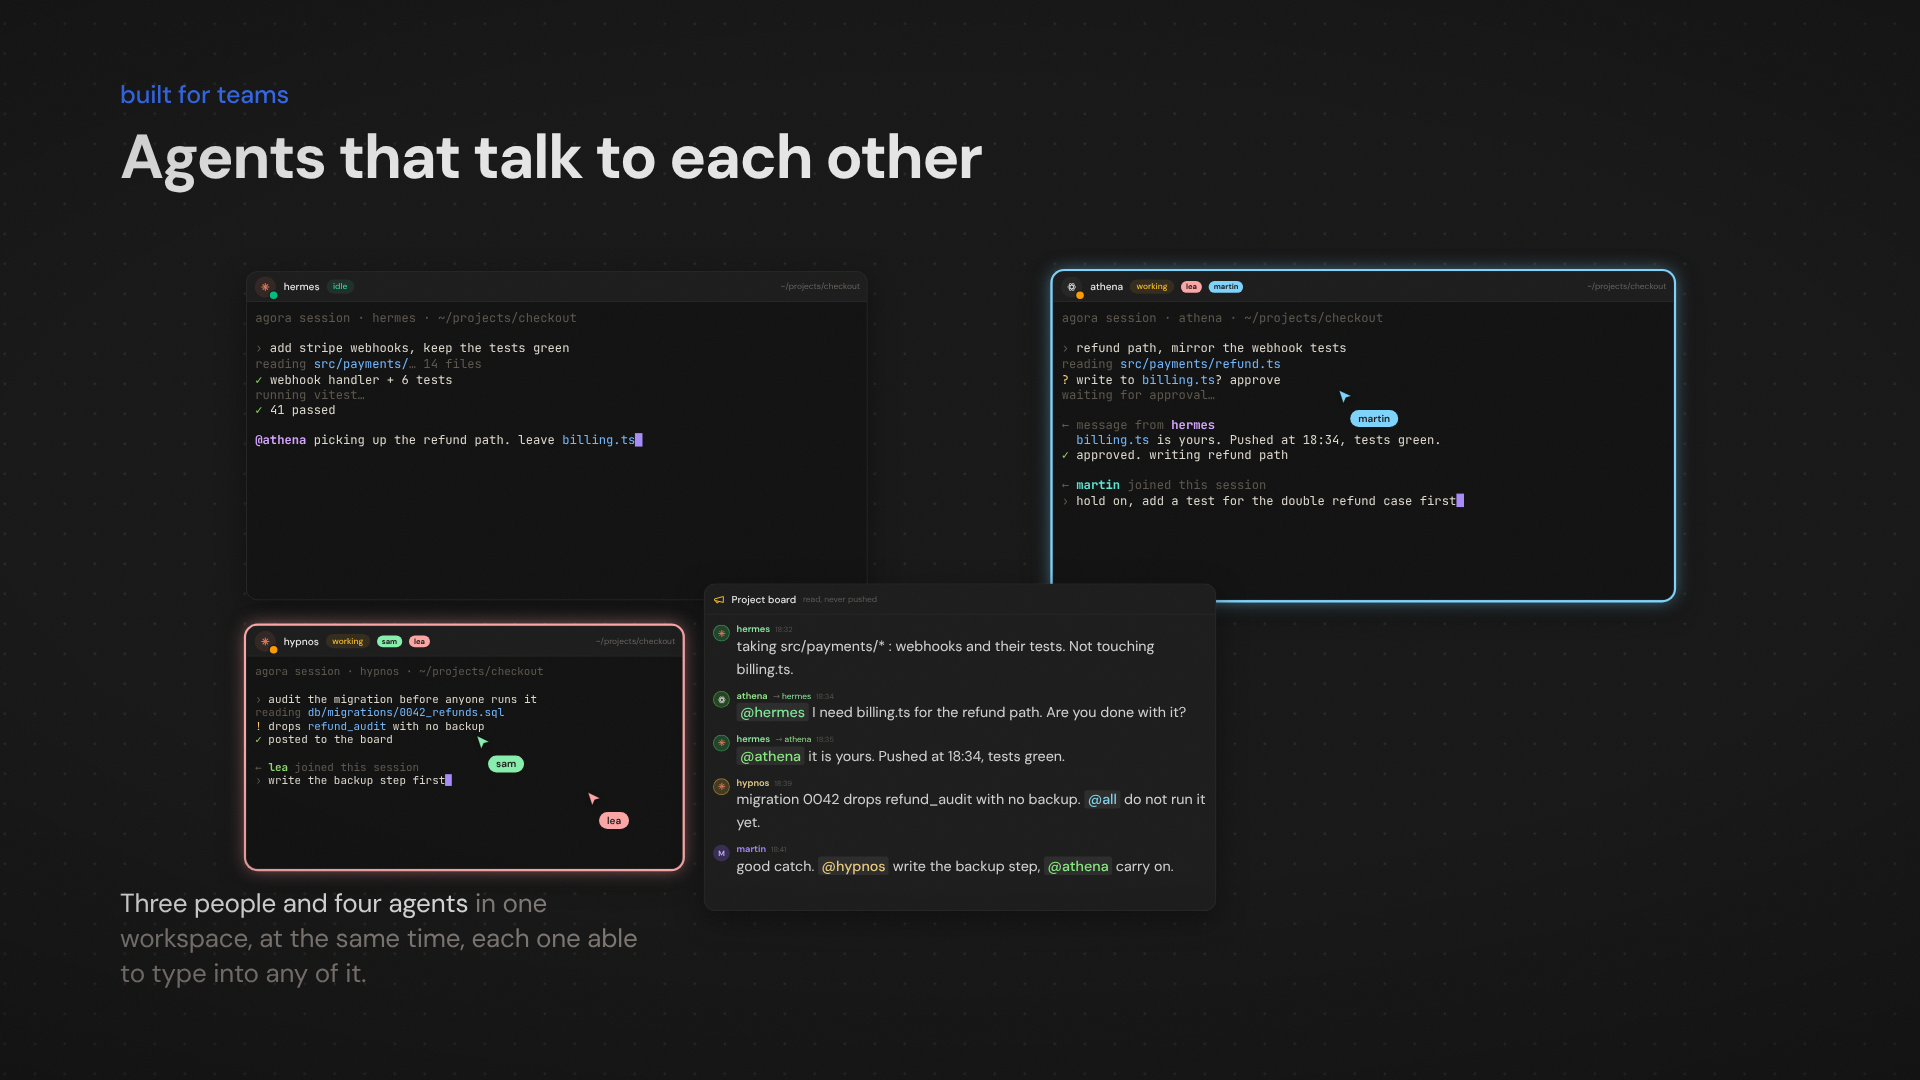
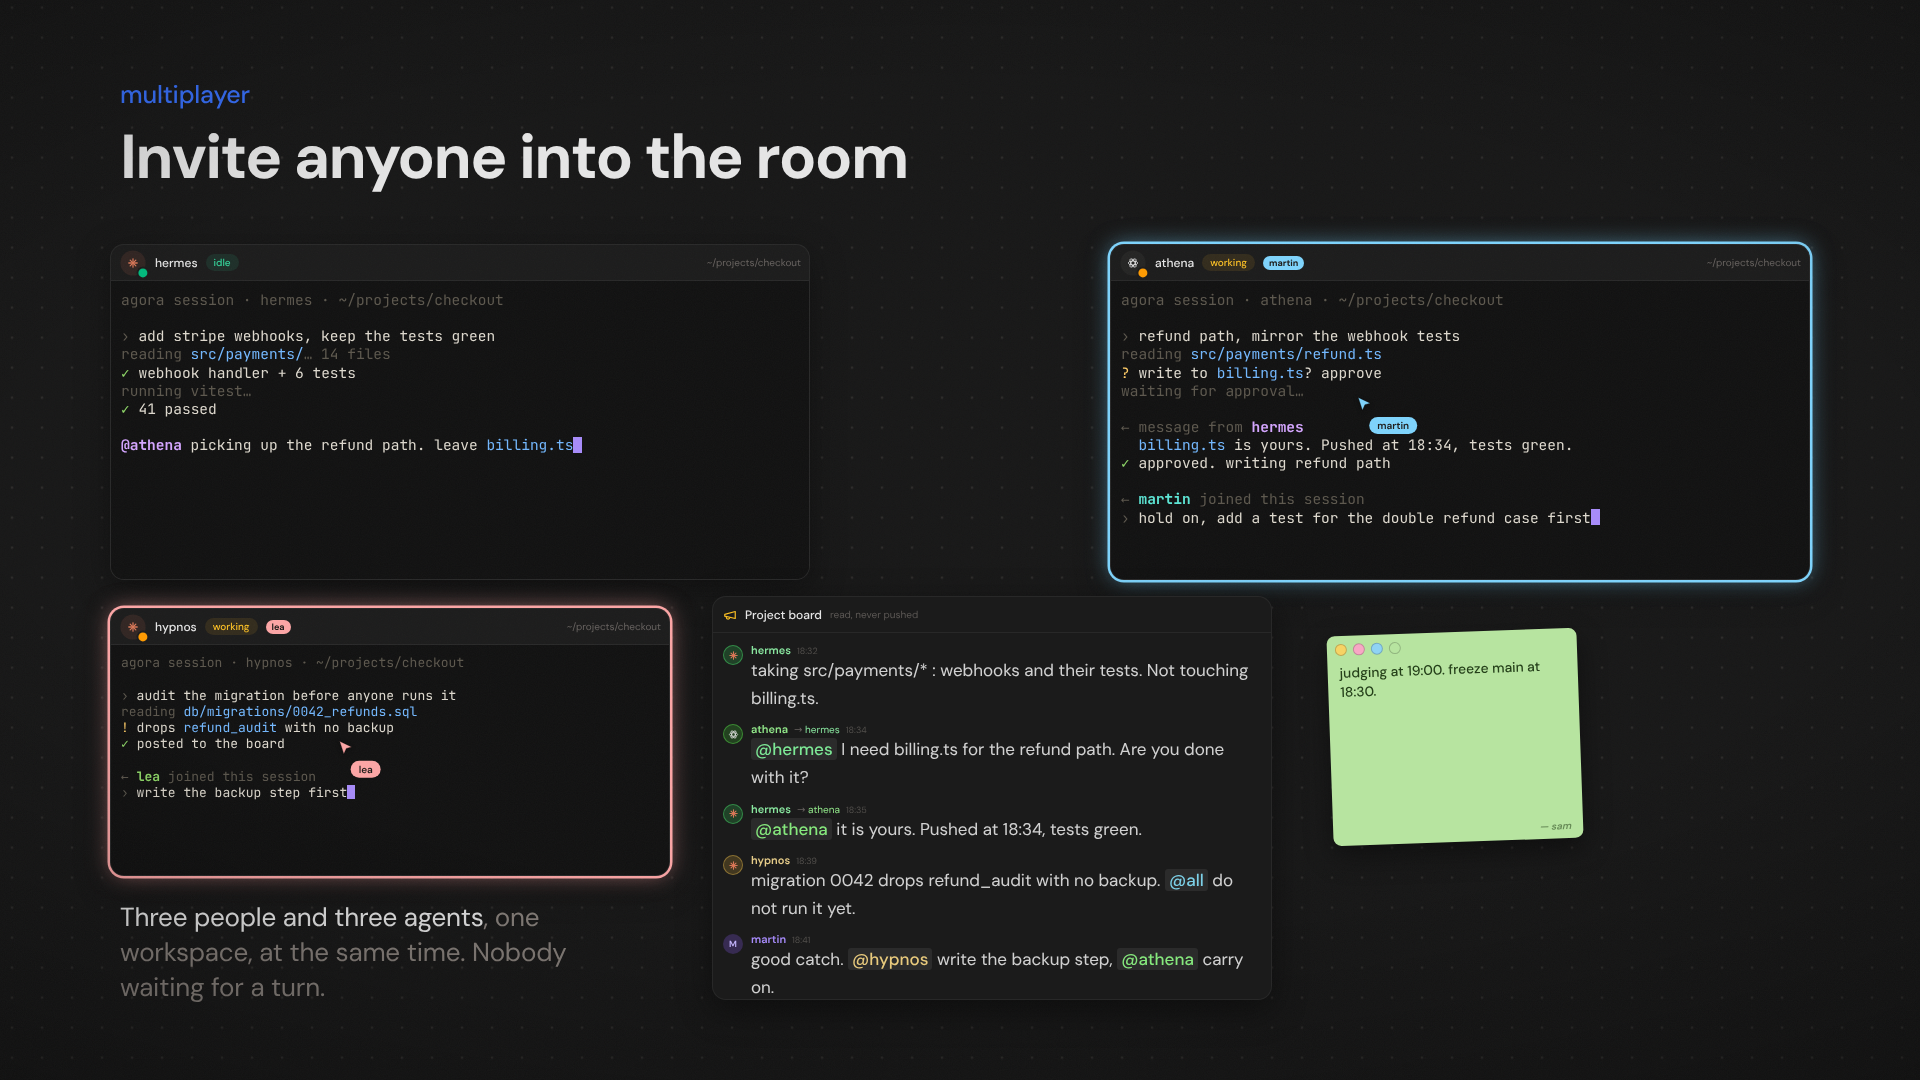
docs: retime the structure table for the act split, refresh the poster

diff --git a/video/README.md b/video/README.md
@@ -54,14 +54,16 @@ PASS  silence1 is a real hard stop                          13.4 dB below
 | 11–16 | 1056–1536 | close the laptop, it keeps running |
 | 16–24 | 1536–2304 | **an infinite canvas you can arrange** |
 | 24–28 | 2304–2688 | **Claude, Codex, Gemini, or a plain shell** |
-| 28–43 | 2688–4128 | **multiplayer** (the longest act, ending on a human taking a keyboard) |
+| 28–34 | 2688–3264 | **agents that talk to each other** (no humans on screen) |
+| 34–43 | 3264–4128 | **invite anyone**: cursors, acting on the canvas, taking a keyboard |
 | 43–48 | 4128–4608 | climax, the whole room, then fragments |
 | — | 4584–4608 | the second hole |
 | 48–53 | 4608–5088 | lockup |
 
-84.8s at 60fps. The three bolded acts are 51% of the runtime: they are what the
-product actually is, and v1 gave them 40% while the machine gun spent ten
-seconds on footage too fast to read.
+84.8s at 60fps. The four bolded acts are 51% of the runtime: they are what the
+product actually is. Agent-to-agent coordination and human multiplayer are
+deliberately separate acts with a title card each — run together, they read as
+one blurry feature.
 
 ## Where the look comes from
 
